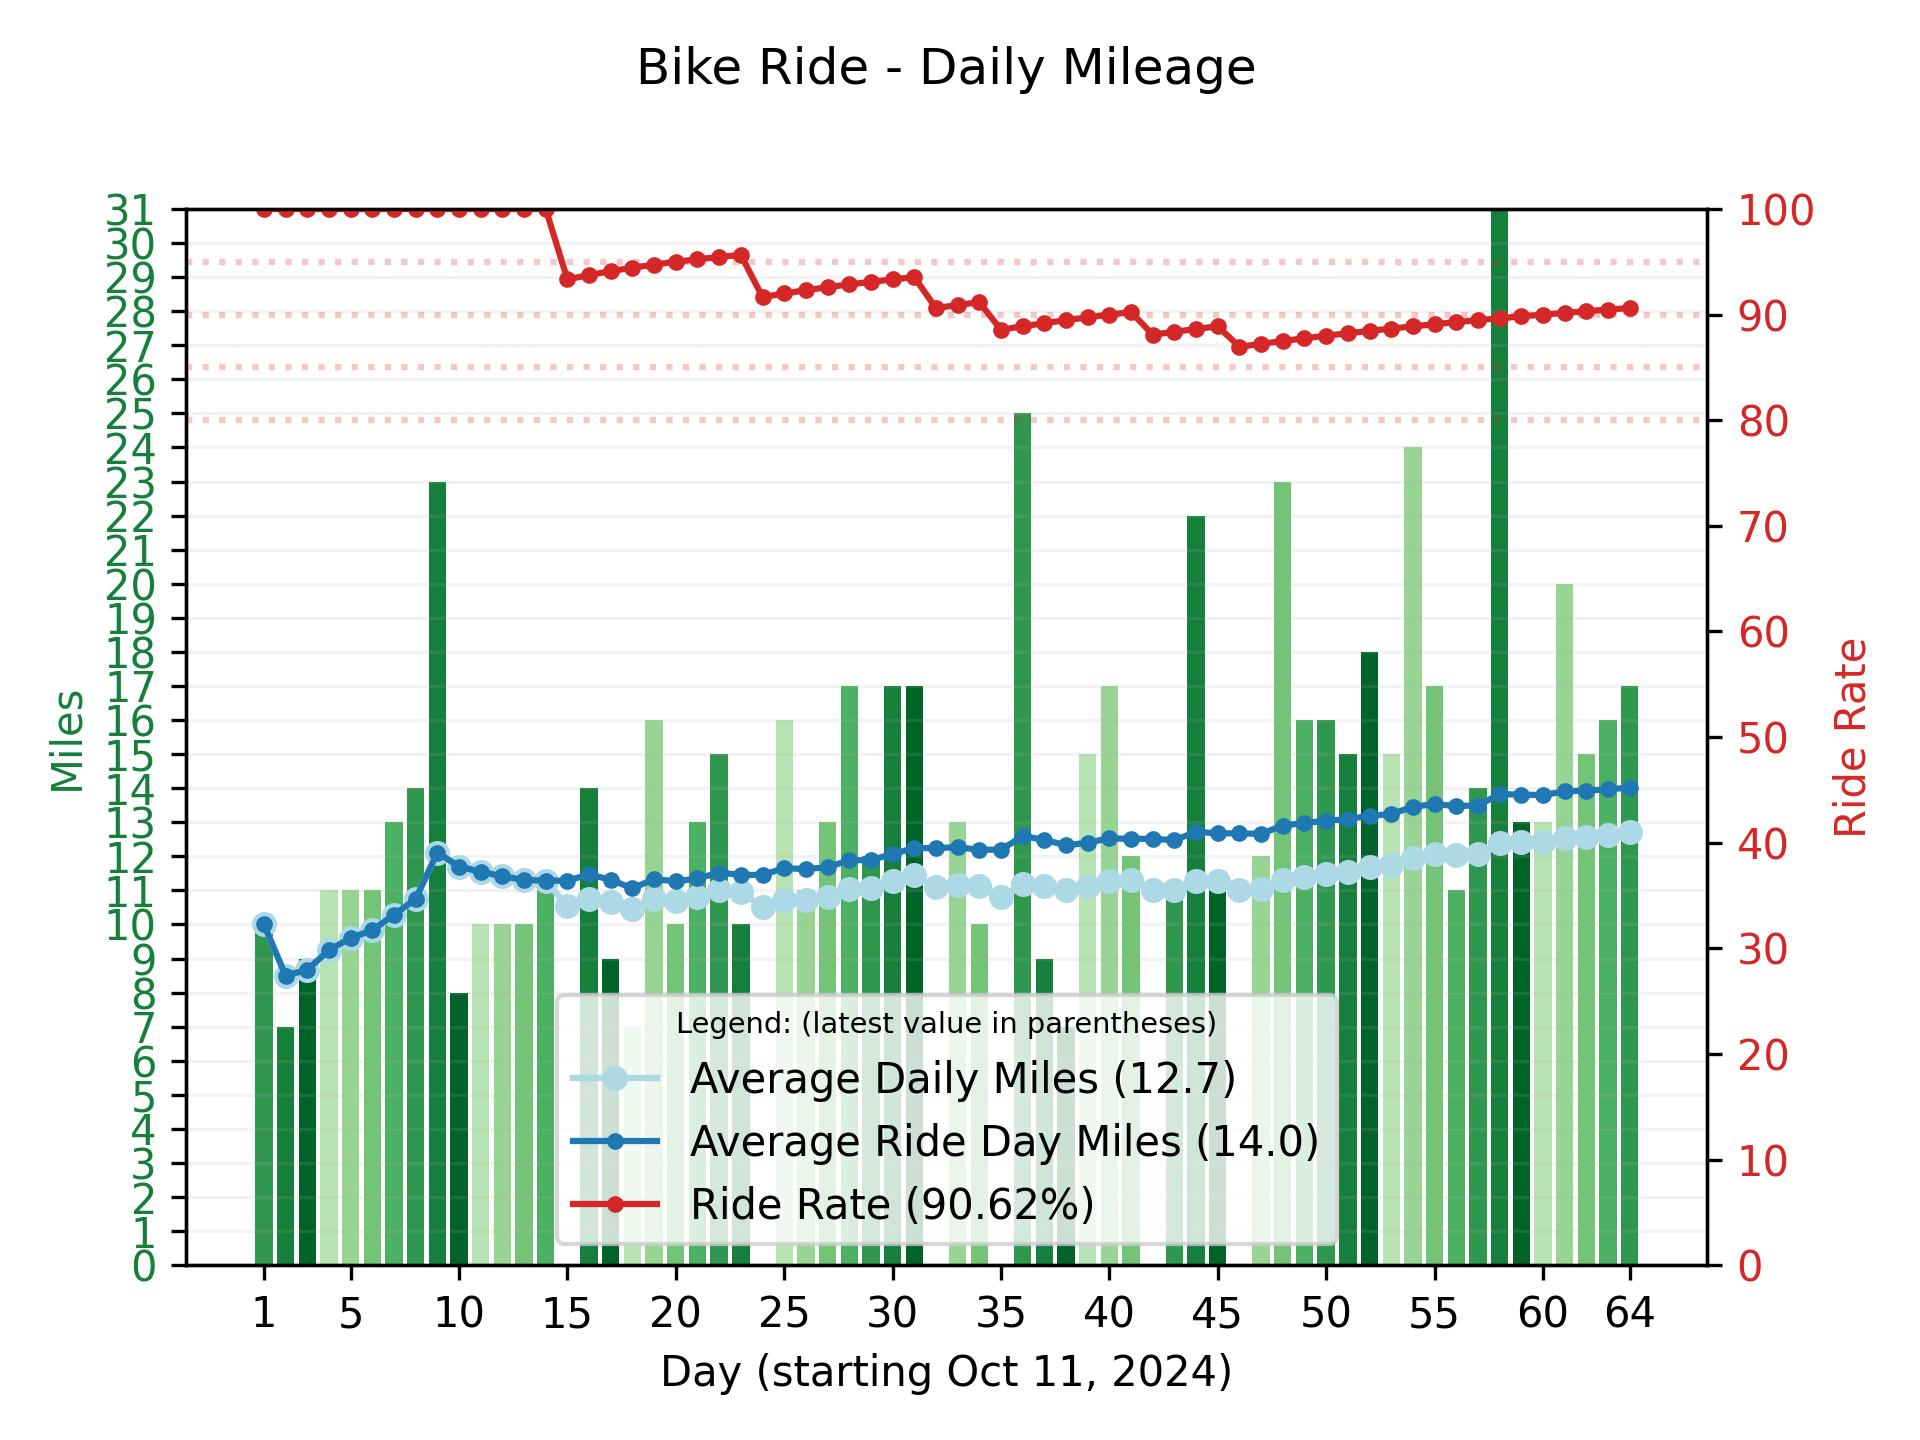
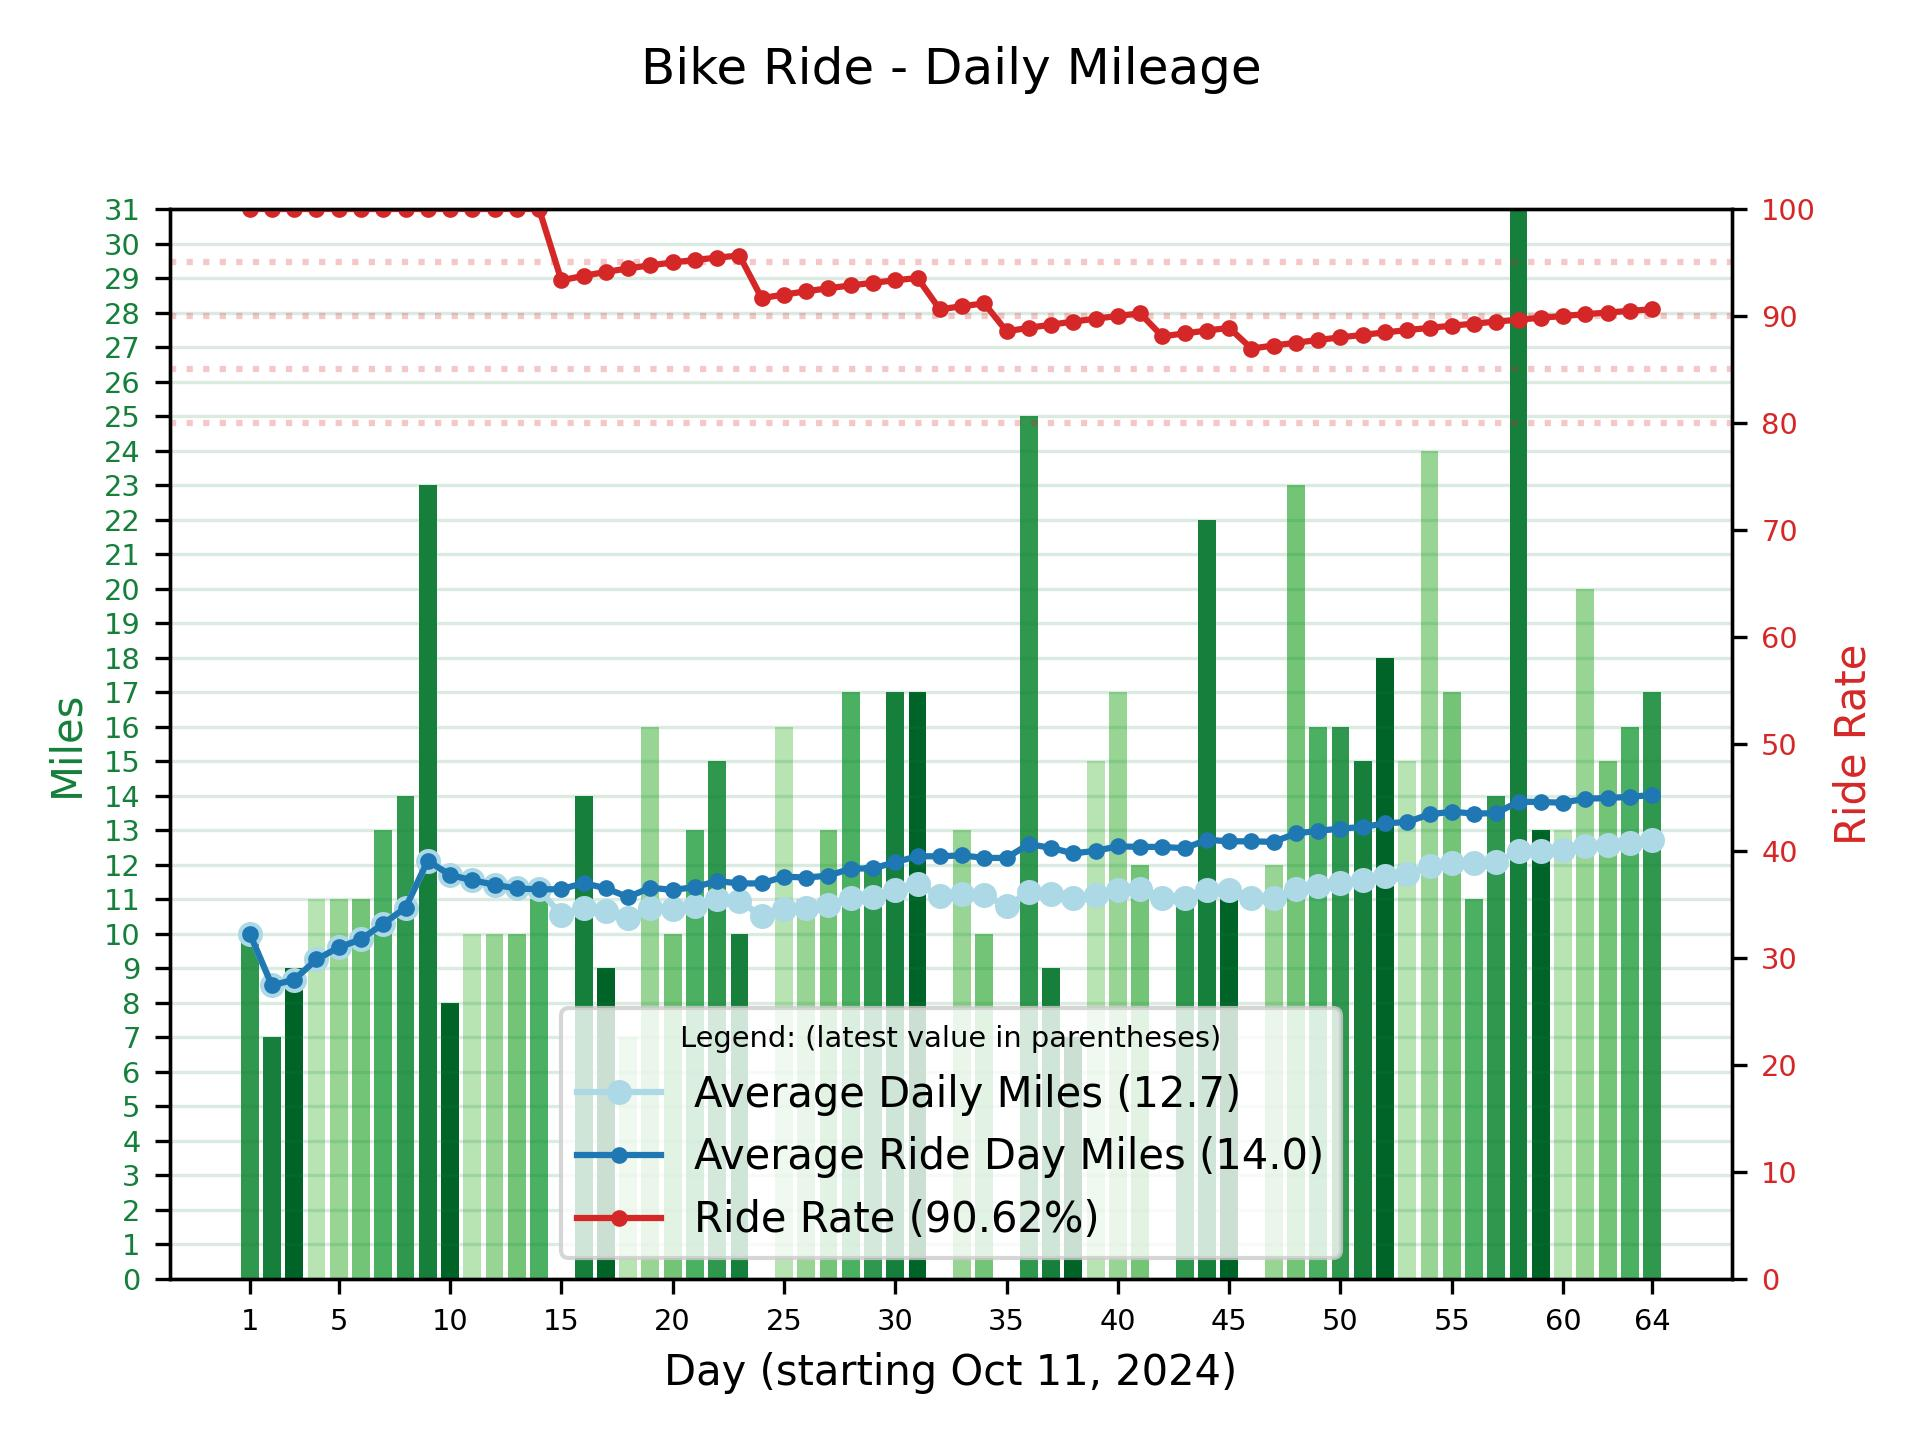
tweak cosmetics of graph

diff --git a/src/show_stats.py b/src/show_stats.py
@@ -193,7 +193,7 @@ def x_axis_days(stats, ax1):
 
     ax1.set_xlabel("Day (starting Oct 11, 2024)")
     tick_offsets, tick_labels = get_ticks(num_days, period=5)
-    plt.xticks(tick_offsets, tick_labels)
+    plt.xticks(tick_offsets, tick_labels, fontsize="x-small")
 
 
 def y_axis_miles(stats, ax1):
@@ -207,9 +207,9 @@ def y_axis_miles(stats, ax1):
     color = plt.cm.Greens(0.8)
     ax1.set_ylabel("Miles", color=color)
     plt.ylim(0, max(y))
-    plt.yticks(range(0, int(max(y)) + 1, 1), color=color)
+    plt.yticks(range(0, int(max(y)) + 1, 1), color=color, fontsize="x-small")
 
-    plt.grid(axis="y", linestyle="-", alpha=0.15)
+    plt.grid(axis="y", linestyle="-", alpha=0.15, color=color)
 
     colors = get_colors(stats)
 
@@ -230,7 +230,7 @@ def y_axis_percentage(stats, ax1):
     ax2 = ax1.twinx()
     ax2.set_ylabel("Ride Rate", color=color)
     plt.ylim(0, max(ride_rate_y))
-    plt.yticks(range(0, 101, 10), color=color)
+    plt.yticks(range(0, 101, 10), color=color, fontsize="x-small")
 
     for y in range(80, 100, 5):
         ax2.axhline(y, color=color, linestyle=":", alpha=0.25)
